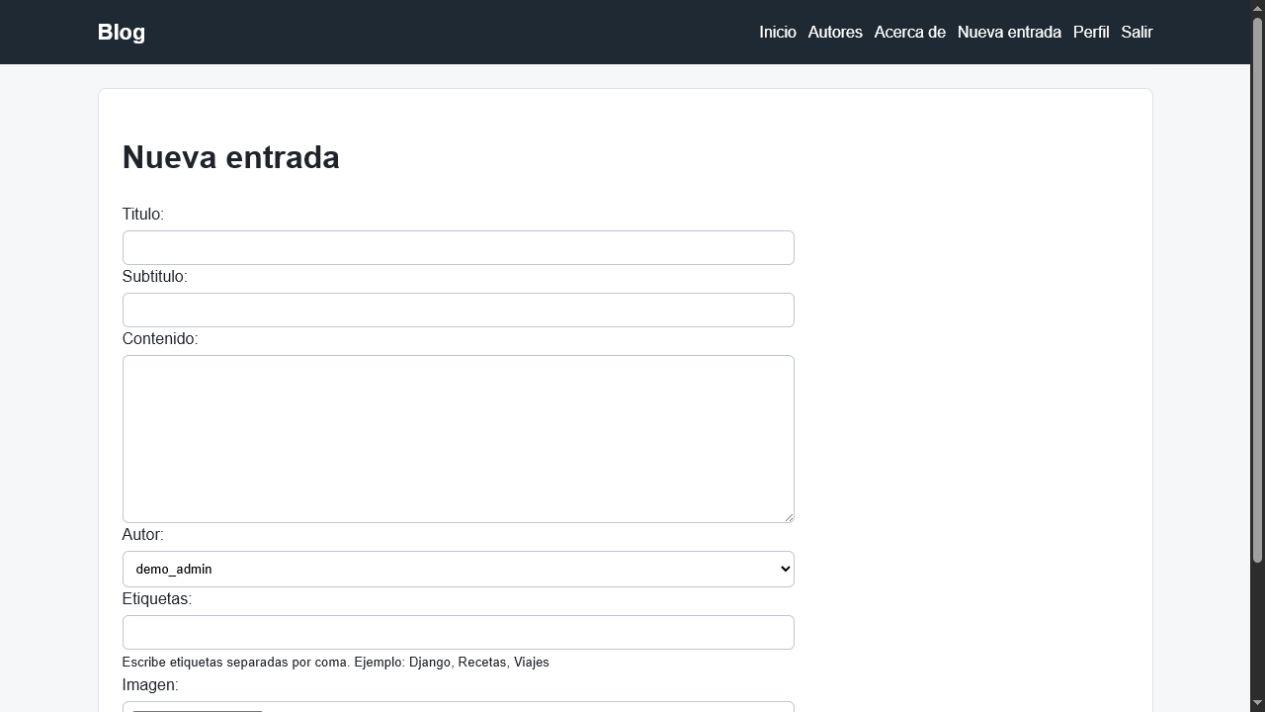
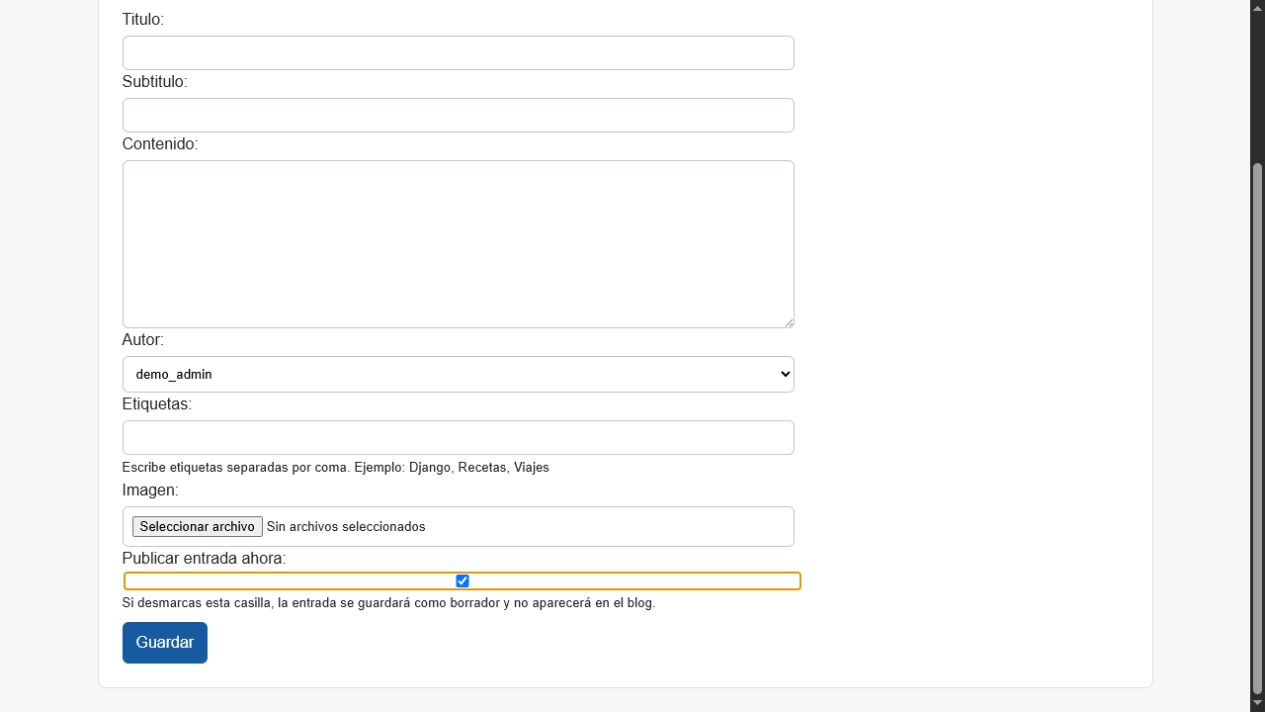
Aclarar publicacion y guardado como borrador

diff --git a/blog/tests.py b/blog/tests.py
@@ -61,6 +61,17 @@ class PostModelTests(TestCase):
 
 
 class PostFormTests(TestCase):
+    def test_published_field_explains_publication_and_draft_states(self):
+        field = PostForm().fields['published']
+
+        self.assertEqual(field.label, 'Publicar entrada ahora')
+        self.assertEqual(
+            field.help_text,
+            'Si desmarcas esta casilla, la entrada se guardará como borrador '
+            'y no aparecerá en el blog.',
+        )
+        self.assertTrue(field.initial)
+
     def test_post_form_rejects_short_content(self):
         form = PostForm(
             data={

diff --git a/blog/forms.py b/blog/forms.py
@@ -20,7 +20,13 @@ class PostForm(forms.ModelForm):
             'content': 'Contenido',
             'author_profile': 'Autor',
             'image': 'Imagen',
-            'published': 'Publicado',
+            'published': 'Publicar entrada ahora',
+        }
+        help_texts = {
+            'published': (
+                'Si desmarcas esta casilla, la entrada se guardará como borrador '
+                'y no aparecerá en el blog.'
+            ),
         }
 
     def __init__(self, *args, user=None, **kwargs):